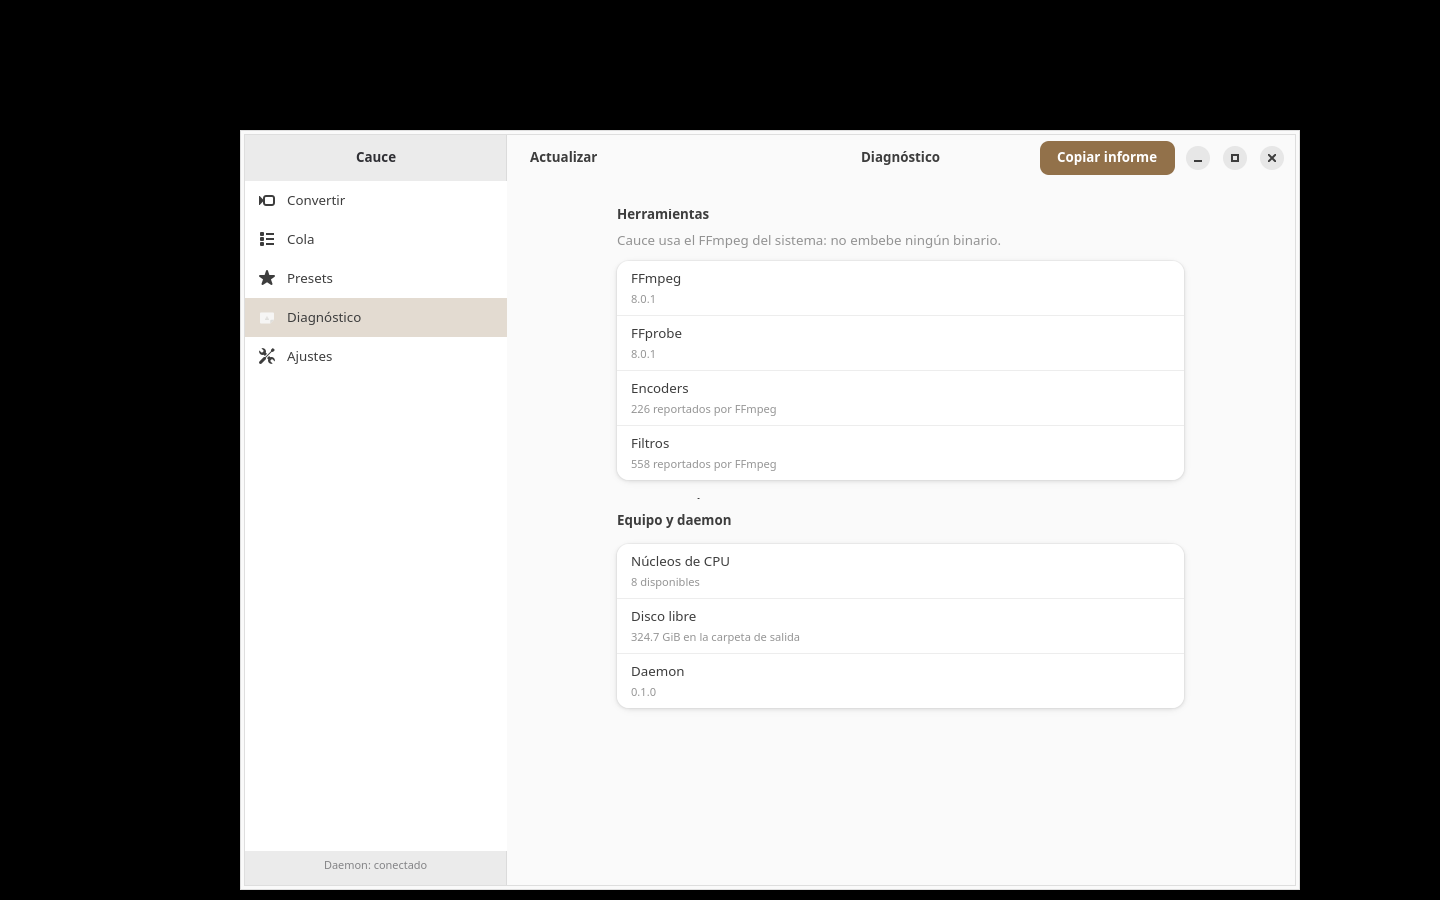
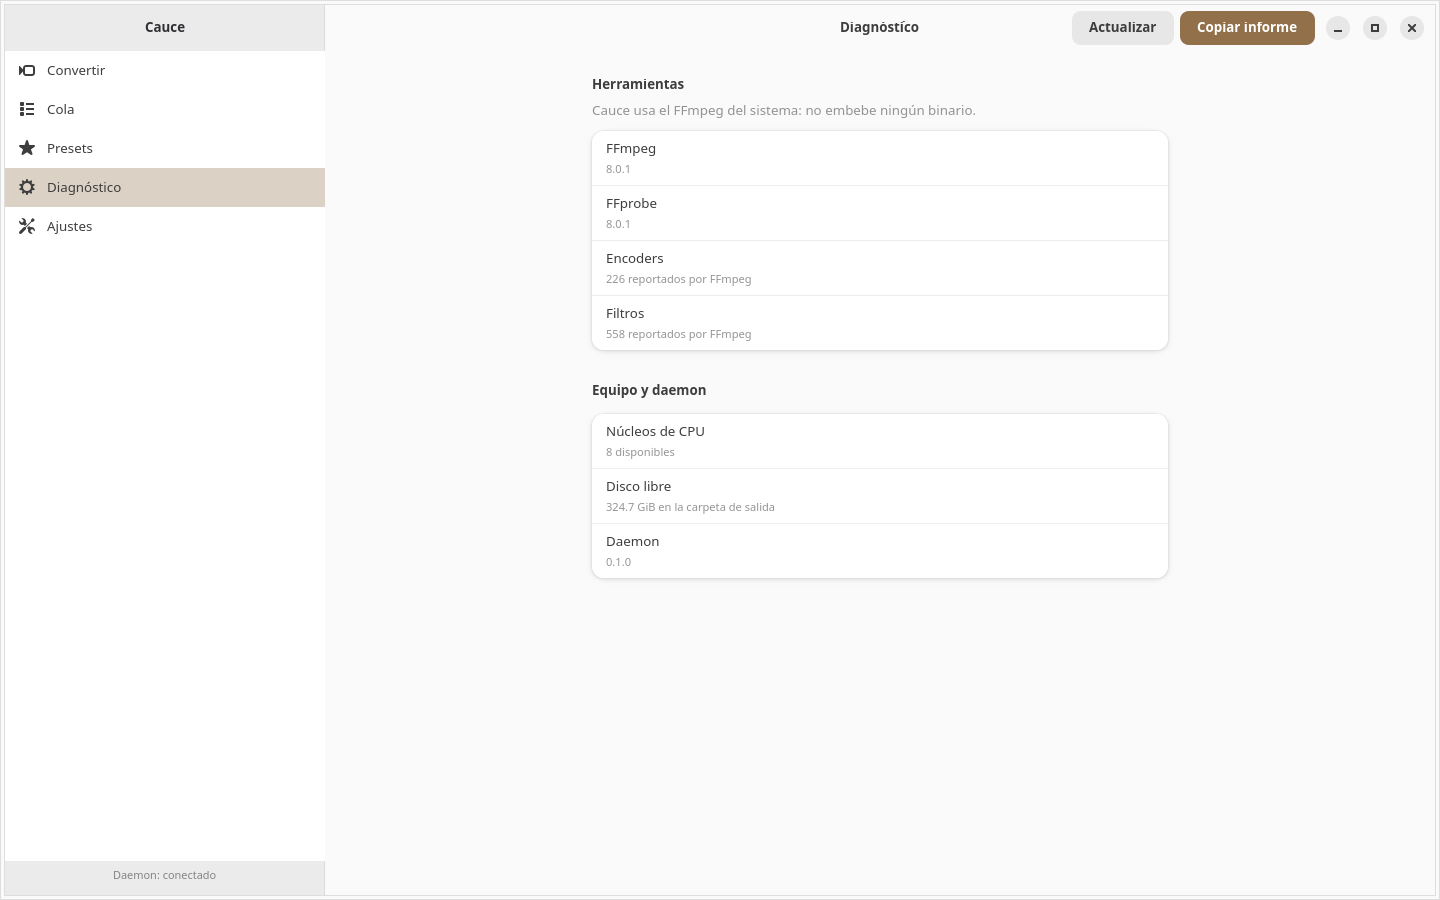
docs(qa): replace the diagnostic capture with the current ui

diff --git a/odd/tasks/cauce-0.1.md b/odd/tasks/cauce-0.1.md
@@ -694,3 +694,8 @@ Copiados de `architecture.md` §19 y `ui-mvp.md` §170-179; se marcan solo con e
 - `03-presets.png` restaurada de `e40e8d5` y `05-diagnostico.png` restaurada de `7b84a52` — es una captura de **1440×900**, no de 960: el archivo original estaba mal nombrado y se corrige el nombre, no la imagen. `01-convertir` (1440) y `06-convertir-960` (960) se mantienen.
 - Set final: `01-convertir` 1440×900 · `02-cola` 1440×900 · `03-presets` 1440×900 · `04-ajustes` 1440×900 · `05-diagnostico` 1440×900 · `06-convertir-960` 960×640. Dimensiones verificadas leyendo la cabecera PNG de cada archivo.
 - Sigue faltando **Convertir con archivo** (DnD imposible sin ventana origen; `GtkFileDialog` no cierra bajo Xvfb).
+
+**L50 (05 corregida) — Diagnóstico real, sin restos:**
+- La `05-diagnostico.png` anterior era una captura vieja con barras negras y UI previa a las correcciones; **se reemplazó**.
+- Nueva captura por **ventana cliente** (`import -window $WID`) a **1440×900**: título **"Diagnóstico"**, sidebar resaltando Diagnóstico, sin fondo negro. Datos reales del daemon: FFmpeg y FFprobe 8.0.1, 226 encoders, 558 filtros, 8 núcleos, 324,7 GiB libres y daemon 0.1.0; acciones "Actualizar" (pill) y "Copiar informe" alineadas en la misma línea base.
+- Set definitivo: `01-convertir` · `02-cola` · `03-presets` · `04-ajustes` · `05-diagnostico` (todas 1440×900) · `06-convertir-960` (960×640).
